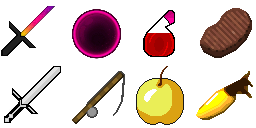
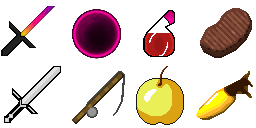
Update

Changed region(s): [[0.5625, 0.25, 0.6875, 0.4375]]

diff --git a/scripts/extract-textures.js b/scripts/extract-textures.js
@@ -7,7 +7,7 @@ const KEY_TEXTURES = {
   items: [
     ['assets/minecraft/textures/items/diamond_sword.png'],
     ['assets/minecraft/textures/items/ender_pearl.png'],
-    { composite: 'potion', bottle: 'assets/minecraft/textures/items/potion_bottle_splash.png', overlay: 'assets/minecraft/textures/items/potion_overlay.png', color: [255, 0, 0] },
+    { composite: 'potion', bottle: 'assets/minecraft/textures/items/potion_bottle_splash.png', overlay: 'assets/minecraft/textures/items/potion_overlay.png', color: [248, 36, 35] },
     ['assets/minecraft/textures/items/steak.png', 'assets/minecraft/textures/items/beef_cooked.png'],
     ['assets/minecraft/textures/items/iron_sword.png'],
     ['assets/minecraft/textures/items/fishing_rod_uncast.png'],
@@ -92,7 +92,7 @@ async function extractPack(zipPath) {
     for (const alternatives of pathsArray) {
       // Handle composite textures (like potions)
       if (alternatives.composite === 'potion') {
-        const filename = 'potion_healing.png';
+        const filename = 'splash_potion_of_healing.png';
         const bottleEntry = zip.getEntry(alternatives.bottle);
         const overlayEntry = zip.getEntry(alternatives.overlay);
 
@@ -113,26 +113,37 @@ async function extractPack(zipPath) {
         if (bottleBuffer && overlayBuffer) {
           const [r, g, b] = alternatives.color;
 
-          // Tint overlay with color and composite onto bottle
-          const tintedOverlay = await sharp(overlayBuffer)
+          // 获取 overlay 的原始像素数据
+          const overlayRaw = await sharp(overlayBuffer)
             .ensureAlpha()
             .raw()
             .toBuffer({ resolveWithObject: true });
 
-          const pixels = tintedOverlay.data;
-          for (let i = 0; i < pixels.length; i += 4) {
-            if (pixels[i + 3] > 0) {
-              pixels[i] = Math.round(pixels[i] * r / 255);
-              pixels[i + 1] = Math.round(pixels[i + 1] * g / 255);
-              pixels[i + 2] = Math.round(pixels[i + 2] * b / 255);
+          const overlayPixels = overlayRaw.data;
+          const { width, height } = overlayRaw.info;
+
+          // Multiply 染色：颜色与灰度相乘，保留阴影细节
+          for (let i = 0; i < overlayPixels.length; i += 4) {
+            if (overlayPixels[i + 3] > 0) {
+              overlayPixels[i] = Math.round(overlayPixels[i] * r / 255);
+              overlayPixels[i + 1] = Math.round(overlayPixels[i + 1] * g / 255);
+              overlayPixels[i + 2] = Math.round(overlayPixels[i + 2] * b / 255);
             }
           }
 
-          const tinted = await sharp(pixels, { raw: { width: tintedOverlay.info.width, height: tintedOverlay.info.height, channels: 4 } }).png().toBuffer();
+          // 创建染色后的 overlay
+          const tintedOverlay = await sharp(overlayPixels, { raw: { width, height, channels: 4 } })
+            .png()
+            .toBuffer();
 
-          await sharp(bottleBuffer)
-            .composite([{ input: tinted, blend: 'over' }])
+          // 正确的合成顺序：染色液体在底层，瓶子在上层
+          await sharp(tintedOverlay)
+            .composite([{ input: bottleBuffer, blend: 'over' }])
             .toFile(path.join(outputDir, filename));
+
+          // 同时保存原始 overlay 和 bottle 供前端动态渲染使用
+          fs.writeFileSync(path.join(outputDir, 'potion_overlay.png'), overlayBuffer);
+          fs.writeFileSync(path.join(outputDir, 'potion_bottle_splash.png'), bottleBuffer);
 
           extracted[category].push(filename);
         }
